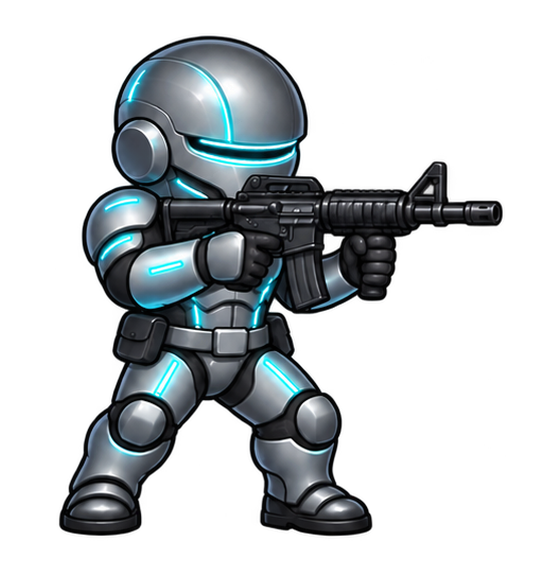
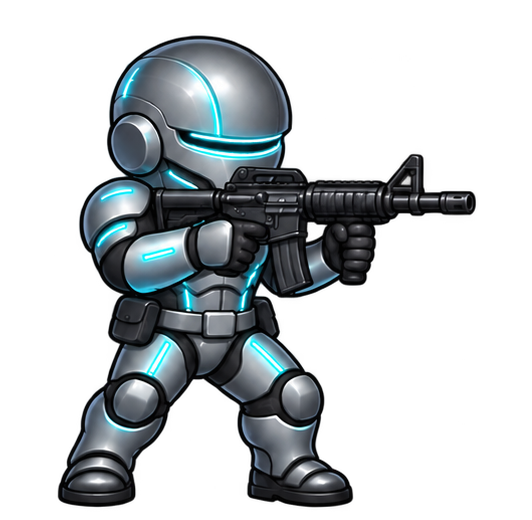
Fix level-up value, tune Medic and ArcRelay, correct Trooper action scale
- LEVEL_POWER_STEP 0.5 -> 1.0: level-ups were strictly worse than doubling,
  so a leveling player won 5/48 harness matches; now 32/48.
- Field Medic heal 38 -> 30 and ArcRelay damage 15 -> 17 (dense-fight spread
  79 -> 62 points). Details in docs/balance-2026-10-07.md.
- Trooper Lv2/Lv3 actions: idle height includes the upright rifle, so they
  rendered 5-14% large; reviewed body_scale from helmet width with the rifle
  excluded.
- Unit test for idle foot line and body_scale validation.

Changed region(s): [[0.0902, 0.0615, 0.9023, 0.9846]]

diff --git a/tools/test_art_pipeline.py b/tools/test_art_pipeline.py
@@ -90,6 +90,31 @@ class ArtPipelineTests(unittest.TestCase):
         self.assertEqual({b[3] - (size[1]-512)//2 for b in boxes}, {481})
         self.assertEqual(report["runtime_size"], list(size))
 
+    def idle_frames(self, prefix, height=300, foot=500):
+        for name in slice_sheets.IDLE_FRAME_NAMES:
+            image = Image.new("RGBA", (512, 512))
+            ImageDraw.Draw(image).rectangle((200, foot-height, 299, foot-1), fill=(90, 90, 90, 255))
+            image.save(prepare_output(self.directory / f"{prefix}_{name}.png"))
+
+    def test_scale_lock_adopts_idle_foot_line_and_reviewed_body_scale(self):
+        self.idle_frames("probe_lv2_idle")
+        entry = {"out_prefix": "probe_lv2_attack", "scale_lock": "idle"}
+        with patch.object(slice_sheets, "ASSETS", self.directory):
+            options = slice_sheets.entry_options(entry)
+            self.assertEqual((options["body_height"], options["foot_y"]), (300, 500))
+            with self.assertRaisesRegex(ValueError, "body_scale_reason"):
+                slice_sheets.entry_options(dict(entry, body_scale=0.9))
+            with self.assertRaisesRegex(ValueError, "between 0.7 and 1.3"):
+                slice_sheets.entry_options(dict(entry, body_scale=0.5, body_scale_reason="x"))
+            options = slice_sheets.entry_options(dict(entry, body_scale=0.9, body_scale_reason="reviewed"))
+        self.assertEqual(options["body_height"], 270)
+        frames, report = normalize_sheet(self.sheet(alpha=255, sizes=[(30, 60), (60, 50), (30, 60), (30, 60)]), **options)
+        size = frames[0].size
+        boxes = [frame.getchannel("A").getbbox() for frame in frames]
+        # Feet sit on the idle's 500 px line in 512-frame coordinates.
+        self.assertEqual({b[3] - (size[1]-512)//2 for b in boxes}, {500})
+        self.assertTrue(all(abs((b[3]-b[1]) - 270) <= 1 for i, b in enumerate(boxes) if i != 1))
+
     def test_common_scale_and_foot_alignment(self):
         frames, report = normalize_sheet(self.sheet(alpha=255, sizes=[(20, 40), (40, 40), (20, 40), (30, 40)]))
         boxes = [frame.getchannel("A").getbbox() for frame in frames]

diff --git a/docs/balance-2026-10-07.md b/docs/balance-2026-10-07.md
@@ -1,0 +1,31 @@
+# Balance pass — 2026-10-07
+
+Full `tools/balance_harness.gd` suite (seeds 1009/8929/16849, both sides), before
+and after: `builds/balance-20261007.json` (2,218 battles) and
+`builds/balance-20261007-tuned.json` (2,238 battles). No harness failures.
+
+## Changes
+
+| Change | Why |
+|---|---|
+| `RoundState.LEVEL_POWER_STEP` 0.5 → 1.0 | Level-up was strictly dominated by doubling (x1.5/x1.33 vs x2). Promotion-first player: 5/48 → 32/48 matches won vs the investment-scaled bot. Double/add player unchanged at 42/48. |
+| Field Medic heal 38 → 30 | 49 HP/s out-healed an Enforcer's 40 DPS. Swapping Medic for Marksman moved a squad from 74–100% to 5–14%. |
+| ArcRelay damage 15 → 17 | Control archetype lowest at ~33%; ArcRelay also weakest in duels. 17 lifted Control to ~42% without new outliers (19 overshot in dense fights). |
+
+## Results (win rate, draws = half)
+
+| Panel | Spread before | Spread after | Weakest after | Strongest after |
+|---|---:|---:|---|---|
+| 4-unit squads | 66 | 63 | pressure 13% | ranged_sustain 76% |
+| 12-unit dense | 79 | 62 | mobility 19% | ranged_sustain 81% |
+
+Duels are unchanged in shape (Enforcer/Trooper ~90%, Medic 0% because a support
+cannot win a 1v1); duels are not used as a tuning target.
+
+## Still open
+
+- Pressure (Enforcer, Trooper, Demolitionist, Marksman) stays weak in 4-unit
+  fights and Mobility in dense fights. Panels are 14–42 games per rate; tune one
+  unit at a time with larger samples.
+- Double/add player wins 87.5% against the base bot; a casual player's rate is
+  unmeasured. Bot difficulty constants were not changed.
